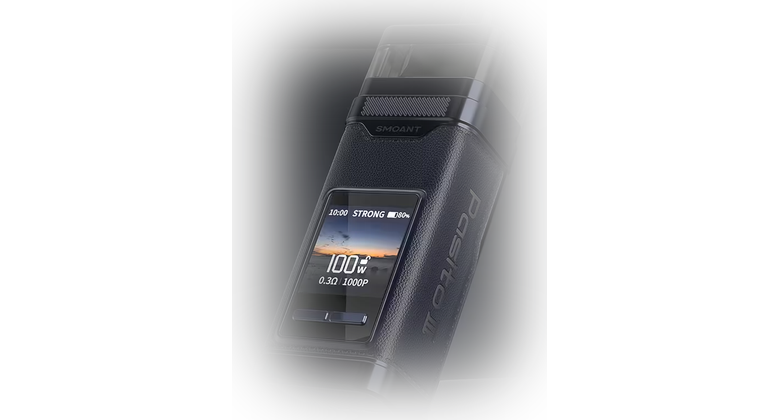
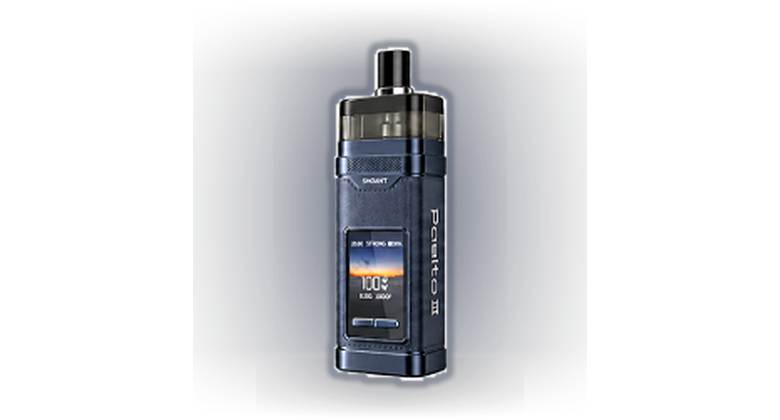
dev21 PASITO 3: все 8 настоящих фото по цветам; кэш 20261012c

Changed region(s): [[0.3385, 0.031, 0.7385, 0.9286], [0.2462, 0.1857, 0.3077, 0.8357]]

diff --git a/index.html b/index.html
@@ -1,11 +1,11 @@
-<!DOCTYPE html>
+<!DOCTYPE html>
 <html lang="ru">
 <head>
 <meta charset="UTF-8">
 <meta name="viewport" content="width=device-width, initial-scale=1, maximum-scale=1, user-scalable=no">
 <title>VapeOasis — мини-приложение</title>
 <script src="https://telegram.org/js/telegram-web-app.js"></script>
-<link rel="stylesheet" href="style.css?v=20261011f">
+<link rel="stylesheet" href="style.css?v=20261012c">
 </head>
 <body>
 <div id="fx"></div>
@@ -82,7 +82,7 @@
 
 <div class="sheet" id="sheet"><div class="in" id="sheetIn"></div></div>
 
-<script src="products.js?v=20261011f"></script>
-<script src="app.js?v=20261011f"></script>
+<script src="products.js?v=20261012c"></script>
+<script src="app.js?v=20261012c"></script>
 </body>
 </html>

diff --git a/app.js b/app.js
@@ -20,7 +20,7 @@ let discountPick = localStorage.getItem("vo_disc") || null; // жижа, на к
 
 const $ = s=>document.querySelector(s);
 const money = n=>n+"₽";
-const IMG_VER = "20261012a";
+const IMG_VER = "20261012c";
 const imgv = u => u ? (u.indexOf("?")>=0 ? u : u+"?v="+IMG_VER) : u;
 const byId = id=>PRODUCTS.find(p=>p.id===id);
 const catEmoji = c=>({liquids:"🧪",pods:"🔌",disposable:"💨",cartridges:"♻",snus:"📦"}[c]||"•");
